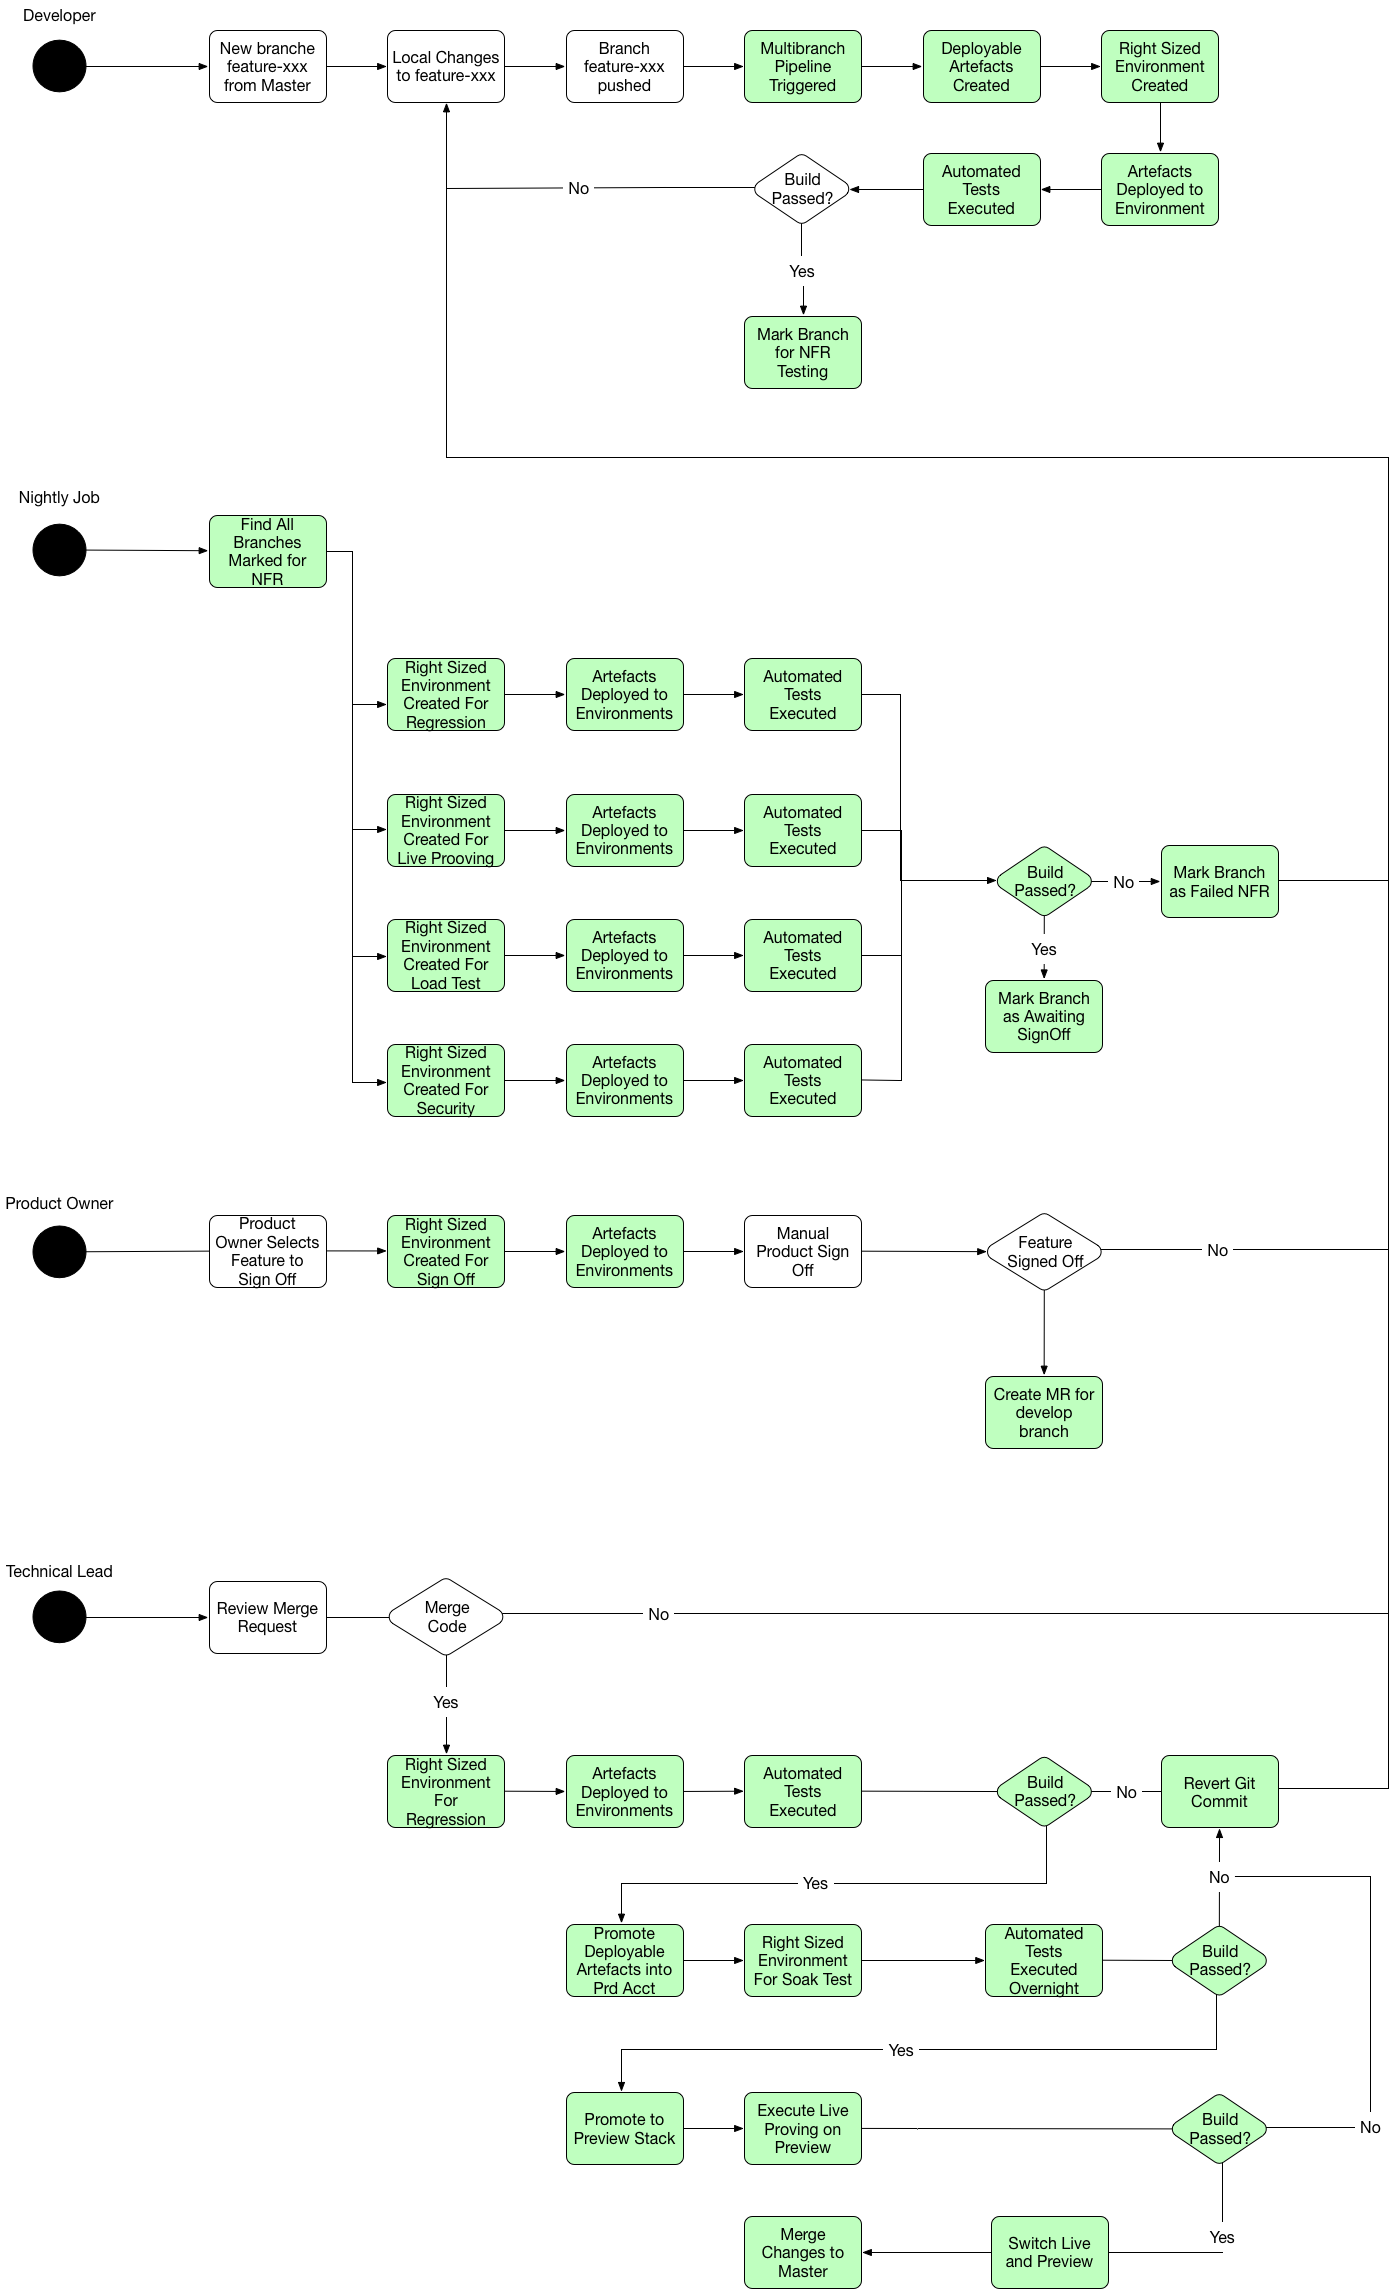
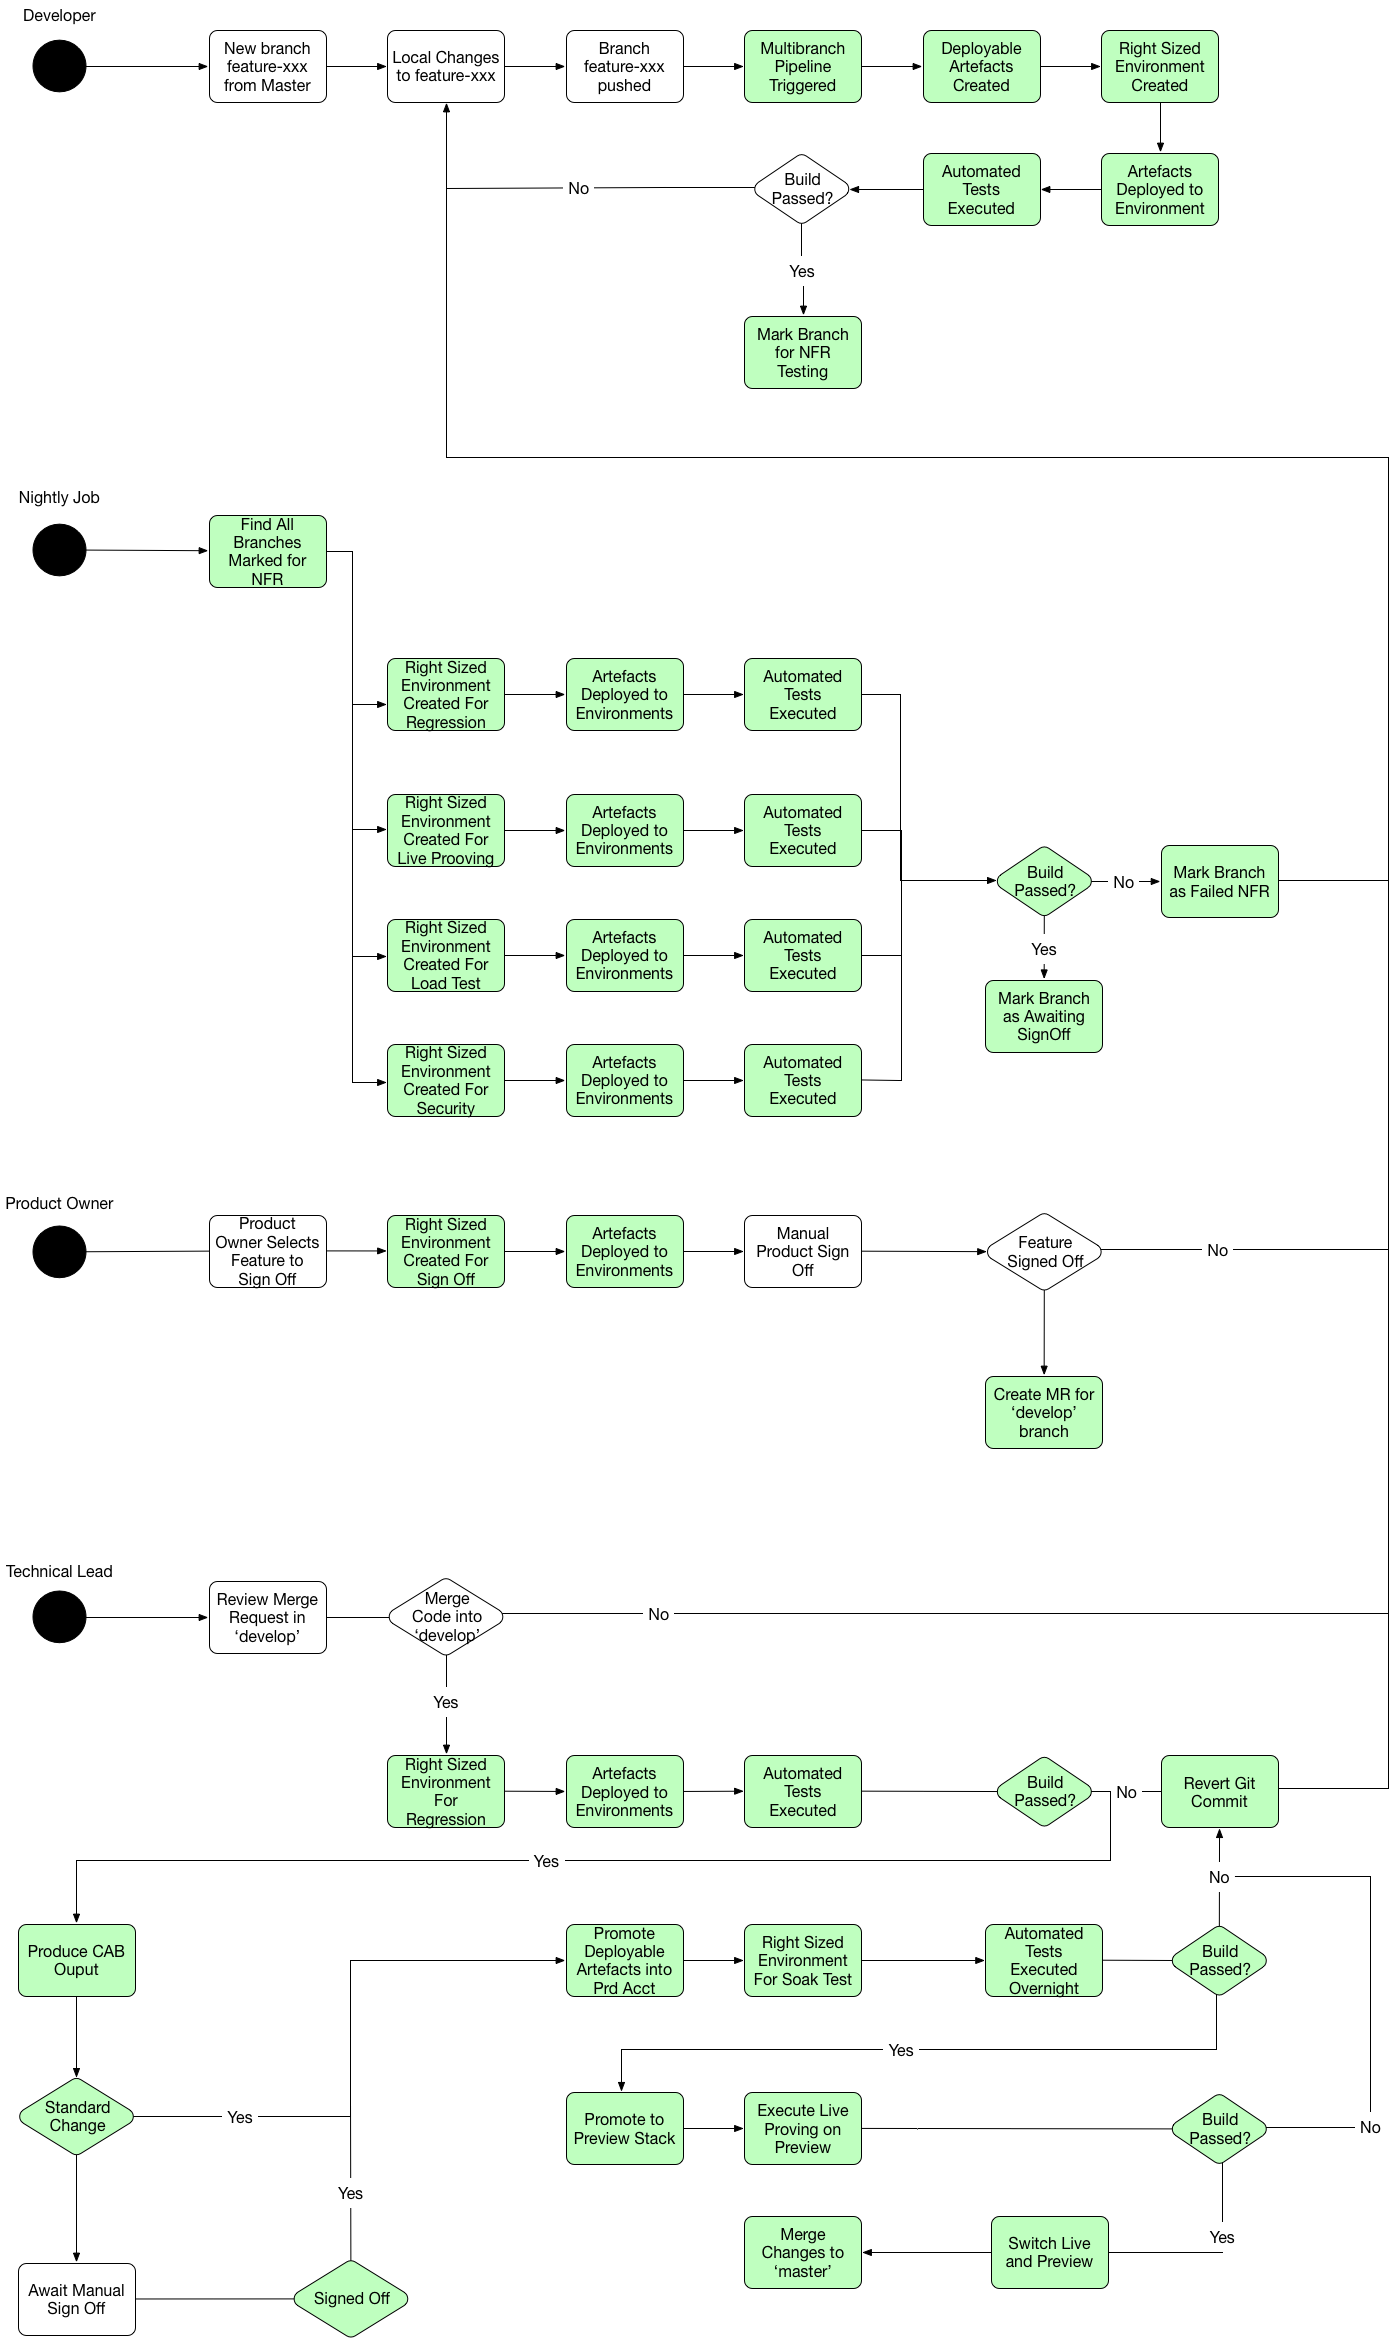
Update to diagram to include CAB approval and more detail around promotion process

diff --git a/source/documentation/pipeline/pipeline.md b/source/documentation/pipeline/pipeline.md
@@ -38,4 +38,17 @@ The thrust of the new pipeline is not to necessarily remove steps, as Acceptance
 Merging into the 'develop' branch is the trigger for that code to make its way into production. It should only be merged into 'develop' once functional and non-functional testing has been successfully executed. The full flow is defined below.
 
 ![pipeline_target](images/pipeline_proposed.png)
+(Include CAB)
+
+Whilst this is a relatively long winded process diagram, the green boxes are assumed to be automated. There should be minimal manual intervention.
+
+## Transition to the New Pipeline
+
+Comparing the two flow diagrams side by side, demonstrates that there is a significant distance to travel to achieve our targetted deployment pipeline. The intention of this section is to identify at a high level the necessary steps to achieve this.
+
+The underpinning pre-requisite to achieve all this is a consistent environment, yet this needs to be delivered in a backdrop of running a live service and delivering new features for that service.
+
+Therefore, this is going to require a forked pipeline to exist at least in the interim period, until Production is built from a single source of truth.
+
+
 
